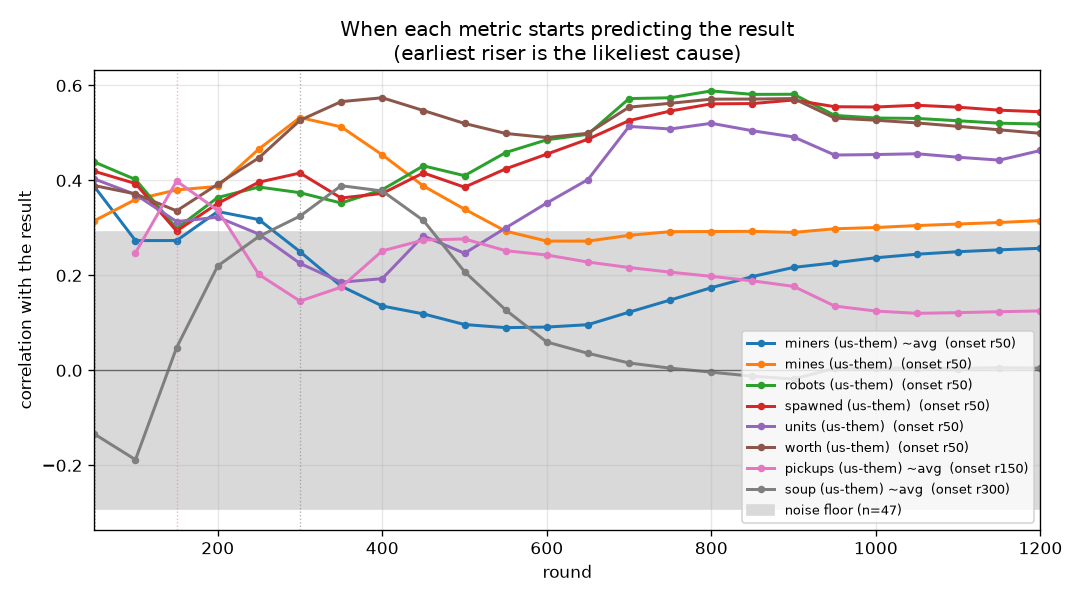
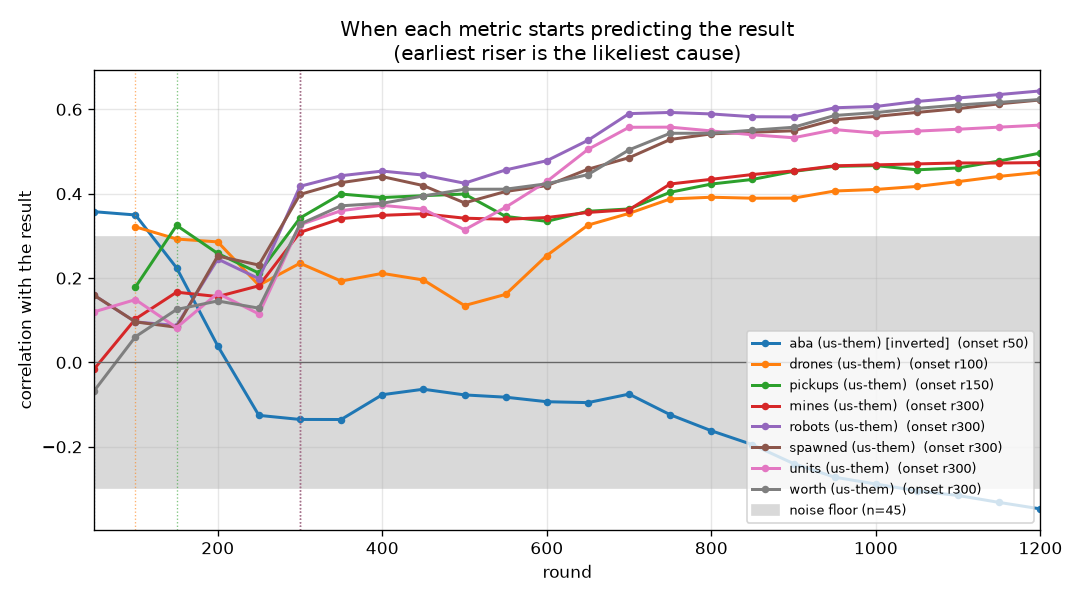
Submission block 20260925-185516-scrim-g_iter10 posted (g_iter10)
Claude-Session: https://claude.ai/code/session_015tNyF5ucwWW1mudpEQTT25

diff --git a/progress/ONSET.md b/progress/ONSET.md
@@ -1,6 +1,6 @@
 # Which metric starts predicting the result first
 
-47 games, 23 wins. Noise floor about 0.29; a correlation inside that band is not evidence.
+45 games, 19 wins. Noise floor about 0.30; a correlation inside that band is not evidence.
 
 Every metric is oriented so **higher is better for us**, so a positive correlation always means
 "this being better goes with winning". `~avg` is the running mean over all rounds so far rather than
@@ -12,46 +12,46 @@ See `progress/METRICS.md` for how each quantity is computed.
 
 | onset | anti | metric | peak corr | r100 | r200 | r300 | r400 | r600 | r900 |
 |---|---|---|---|---|---|---|---|---|---|
-| r50 | - | miners (us-them) ~avg | +0.39 | +0.27 | +0.33 | +0.25 | +0.14 | +0.09 | +0.22 |
-| r50 | - | mines (us-them) | +0.53 | +0.36 | +0.39 | +0.53 | +0.45 | +0.27 | +0.29 |
-| r50 | - | robots (us-them) | +0.59 | +0.40 | +0.36 | +0.37 | +0.38 | +0.49 | +0.58 |
-| r50 | - | robots (us-them) ~avg | +0.58 | +0.39 | +0.33 | +0.36 | +0.43 | +0.49 | +0.58 |
-| r50 | - | spawned (us-them) | +0.57 | +0.39 | +0.35 | +0.42 | +0.37 | +0.46 | +0.57 |
-| r50 | - | spawned (us-them) ~avg | +0.57 | +0.38 | +0.31 | +0.36 | +0.41 | +0.47 | +0.55 |
-| r50 | - | units (us-them) | +0.52 | +0.37 | +0.32 | +0.23 | +0.19 | +0.35 | +0.49 |
-| r50 | - | units (us-them) ~avg | +0.49 | +0.36 | +0.31 | +0.29 | +0.29 | +0.34 | +0.49 |
-| r50 | - | worth (us-them) | +0.57 | +0.37 | +0.39 | +0.53 | +0.57 | +0.49 | +0.57 |
-| r50 | - | worth (us-them) ~avg | +0.58 | +0.34 | +0.35 | +0.46 | +0.56 | +0.55 | +0.57 |
-| r100 | - | mines (us-them) ~avg | +0.50 | +0.32 | +0.34 | +0.43 | +0.50 | +0.43 | +0.35 |
-| r150 | - | pickups (us-them) ~avg | +0.40 | +0.25 | +0.34 | +0.15 | +0.25 | +0.24 | +0.18 |
-| r300 | - | soup (us-them) ~avg | +0.39 | -0.19 | +0.22 | +0.32 | +0.38 | +0.06 | -0.02 |
-| r300 | - | vaporators (us-them) | +0.53 | -0.02 | +0.10 | +0.31 | +0.43 | +0.49 | +0.50 |
-| r400 | - | landscapers (us-them) | +0.63 | +0.28 | +0.21 | +0.17 | +0.31 | +0.57 | +0.60 |
-| r400 | - | pickups (us-them) | +0.40 | +0.25 | +0.23 | +0.04 | +0.33 | +0.20 | +0.12 |
-| r400 | - | vaporators (us-them) ~avg | +0.53 | +0.05 | +0.08 | +0.19 | +0.34 | +0.46 | +0.53 |
-| r500 | - | digs (us-them) | +0.68 | +0.14 | +0.11 | +0.10 | +0.20 | +0.43 | +0.61 |
-| r500 | - | landscapers (us-them) ~avg | +0.67 | +0.28 | +0.19 | +0.17 | +0.22 | +0.49 | +0.65 |
-| r550 | - | dirtDeps (us-them) | +0.67 | +0.10 | +0.07 | +0.08 | +0.16 | +0.39 | +0.58 |
-| r650 | - | digs (us-them) ~avg | +0.62 | +0.14 | +0.09 | +0.07 | +0.12 | +0.28 | +0.50 |
-| r700 | - | dirtDeps (us-them) ~avg | +0.60 | +0.10 | +0.07 | +0.05 | +0.08 | +0.24 | +0.46 |
-| r700 | - | miners (us-them) | +0.40 | +0.19 | +0.34 | +0.07 | +0.02 | +0.08 | +0.38 |
-| r750 | - | moves (us-them) | +0.40 | -0.00 | +0.23 | +0.23 | +0.20 | +0.26 | +0.39 |
-| r800 | - | moves (us-them) ~avg | +0.40 | -0.07 | +0.14 | +0.20 | +0.20 | +0.26 | +0.33 |
-| - | - | aba (us-them) [inverted] | -0.30 | +0.00 | -0.12 | -0.14 | -0.05 | -0.22 | -0.30 |
-| - | - | aba (us-them) [inverted] ~avg | -0.25 | -0.01 | -0.10 | -0.10 | -0.07 | -0.18 | -0.25 |
-| - | - | cov (us-them) | +0.22 | -0.14 | -0.08 | +0.10 | +0.12 | +0.15 | +0.20 |
-| - | - | cov (us-them) ~avg | +0.20 | -0.13 | -0.14 | -0.04 | +0.03 | +0.13 | +0.17 |
-| - | - | died (us-them) [inverted] | +0.25 | +0.22 | +0.13 | -0.11 | +0.17 | +0.20 | +0.14 |
-| - | - | died (us-them) [inverted] ~avg | +0.22 | +0.22 | +0.20 | +0.03 | +0.10 | +0.18 | +0.19 |
-| - | - | drones (us-them) | +0.28 | +0.12 | +0.04 | +0.06 | -0.06 | -0.12 | +0.25 |
-| - | - | drones (us-them) ~avg | +0.22 | +0.12 | +0.16 | +0.13 | +0.06 | -0.07 | +0.14 |
+| r50 | r1050 | aba (us-them) [inverted] | +0.36 | +0.35 | +0.04 | -0.14 | -0.08 | -0.09 | -0.24 |
+| r100 | - | aba (us-them) [inverted] ~avg | +0.35 | +0.35 | +0.14 | -0.07 | -0.11 | -0.10 | -0.16 |
+| r100 | - | drones (us-them) | +0.45 | +0.32 | +0.29 | +0.24 | +0.21 | +0.25 | +0.39 |
+| r100 | - | drones (us-them) ~avg | +0.40 | +0.32 | +0.35 | +0.37 | +0.31 | +0.24 | +0.37 |
+| r150 | - | pickups (us-them) | +0.50 | +0.18 | +0.26 | +0.34 | +0.39 | +0.33 | +0.45 |
+| r150 | - | pickups (us-them) ~avg | +0.47 | +0.18 | +0.30 | +0.33 | +0.40 | +0.39 | +0.44 |
+| r300 | - | mines (us-them) | +0.47 | +0.10 | +0.16 | +0.31 | +0.35 | +0.34 | +0.45 |
+| r300 | - | robots (us-them) | +0.64 | +0.10 | +0.25 | +0.42 | +0.45 | +0.48 | +0.58 |
+| r300 | - | spawned (us-them) | +0.62 | +0.10 | +0.25 | +0.40 | +0.44 | +0.42 | +0.55 |
+| r300 | - | units (us-them) | +0.56 | +0.15 | +0.16 | +0.33 | +0.37 | +0.43 | +0.53 |
+| r300 | - | worth (us-them) | +0.62 | +0.06 | +0.15 | +0.33 | +0.38 | +0.42 | +0.56 |
+| r350 | - | robots (us-them) ~avg | +0.58 | +0.13 | +0.17 | +0.29 | +0.39 | +0.46 | +0.55 |
+| r350 | - | spawned (us-them) ~avg | +0.55 | +0.13 | +0.17 | +0.28 | +0.37 | +0.42 | +0.49 |
+| r350 | - | worth (us-them) ~avg | +0.54 | +0.04 | +0.13 | +0.25 | +0.33 | +0.39 | +0.48 |
+| r400 | - | mines (us-them) ~avg | +0.41 | +0.07 | +0.16 | +0.26 | +0.32 | +0.34 | +0.39 |
+| r400 | - | units (us-them) ~avg | +0.53 | +0.15 | +0.13 | +0.21 | +0.30 | +0.38 | +0.51 |
+| r450 | - | landscapers (us-them) | +0.60 | +0.00 | +0.08 | +0.23 | +0.30 | +0.39 | +0.60 |
+| r500 | - | moves (us-them) | +0.55 | -0.17 | +0.07 | +0.14 | +0.26 | +0.35 | +0.50 |
+| r500 | - | vaporators (us-them) | +0.59 | -0.20 | +0.02 | +0.09 | +0.18 | +0.33 | +0.53 |
+| r550 | - | netguns (us-them) | +0.40 | . | +0.17 | +0.11 | +0.12 | +0.37 | +0.37 |
+| r600 | - | died (us-them) [inverted] | +0.35 | . | -0.04 | +0.14 | +0.19 | +0.32 | +0.20 |
+| r600 | - | landscapers (us-them) ~avg | +0.55 | +0.00 | +0.02 | +0.08 | +0.18 | +0.31 | +0.48 |
+| r650 | - | moves (us-them) ~avg | +0.50 | -0.17 | +0.00 | +0.11 | +0.20 | +0.30 | +0.43 |
+| r700 | - | digs (us-them) | +0.46 | -0.14 | +0.07 | +0.09 | +0.15 | +0.23 | +0.34 |
+| r750 | - | cov (us-them) | +0.35 | -0.10 | +0.13 | +0.06 | +0.11 | +0.21 | +0.30 |
+| r750 | - | netguns (us-them) ~avg | +0.37 | . | +0.18 | +0.14 | +0.13 | +0.23 | +0.34 |
+| r750 | - | vaporators (us-them) ~avg | +0.53 | -0.20 | -0.03 | +0.04 | +0.10 | +0.25 | +0.39 |
+| r950 | - | dirtDeps (us-them) | +0.44 | -0.08 | +0.02 | +0.05 | +0.11 | +0.20 | +0.29 |
+| r1050 | - | cov (us-them) ~avg | +0.31 | -0.08 | +0.03 | +0.03 | +0.06 | +0.13 | +0.25 |
+| r1100 | - | digs (us-them) ~avg | +0.34 | -0.14 | +0.04 | +0.05 | +0.10 | +0.17 | +0.26 |
+| r1200 | - | dirtDeps (us-them) ~avg | +0.31 | -0.08 | -0.01 | -0.01 | +0.05 | +0.13 | +0.22 |
+| - | - | died (us-them) [inverted] ~avg | +0.27 | . | -0.04 | +0.05 | +0.14 | +0.22 | +0.25 |
 | - | - | drowned (us-them) [inverted] | . | . | . | . | . | . | . |
 | - | - | drowned (us-them) [inverted] ~avg | . | . | . | . | . | . | . |
-| - | - | hqBuried (us-them) [inverted] | +0.19 | +0.19 | . | . | . | . | . |
-| - | - | hqBuried (us-them) [inverted] ~avg | +0.19 | +0.19 | . | . | . | . | . |
-| - | - | netguns (us-them) | +0.29 | -0.15 | -0.16 | -0.05 | -0.01 | +0.23 | +0.28 |
-| - | - | netguns (us-them) ~avg | +0.22 | -0.15 | -0.16 | -0.11 | -0.06 | +0.03 | +0.19 |
-| - | - | soup (us-them) | +0.47 | -0.11 | +0.31 | +0.25 | +0.13 | -0.08 | -0.06 |
+| - | - | hqBuried (us-them) [inverted] | +0.21 | +0.21 | +0.13 | . | . | . | . |
+| - | - | hqBuried (us-them) [inverted] ~avg | +0.21 | +0.21 | +0.13 | . | . | . | . |
+| - | - | miners (us-them) | +0.18 | +0.15 | +0.18 | +0.13 | +0.14 | +0.15 | +0.12 |
+| - | - | miners (us-them) ~avg | +0.17 | +0.16 | +0.17 | +0.16 | +0.17 | +0.16 | +0.16 |
+| - | - | soup (us-them) | -0.29 | +0.05 | -0.23 | -0.16 | -0.09 | +0.11 | +0.02 |
+| - | - | soup (us-them) ~avg | -0.29 | -0.04 | -0.07 | -0.10 | -0.09 | +0.02 | +0.08 |
 
 **Reading it.** Earliest onset is the first place to look: temporal precedence is the one causal hint a
 correlation can honestly give. Late-onset metrics are usually the scoreboard rather than the cause -- by then

diff --git a/BENCHMARK.md b/BENCHMARK.md
@@ -62,7 +62,7 @@ build with at least 200 recorded games: a candidate's short ladder arm never re-
 | `EmaPajic.Mark3` | EmaPajic_Battlecode-2020 (c060a22) | - | - | untested |  |
 | `EmaPajic.Mark4` | EmaPajic_Battlecode-2020 (c060a22) | - | - | untested |  |
 | `EmaPajic.Mark5` | EmaPajic_Battlecode-2020 (c060a22) | - | - | untested |  |
-| `EmaPajic.Qualifications` | EmaPajic_Battlecode-2020 (c060a22) | 20 | 30 | target | 20 0 21 0 50 0 17 38 8 25 10 17 20 33 33 22 |
+| `EmaPajic.Qualifications` | EmaPajic_Battlecode-2020 (c060a22) | 20 | 30 | target | 20 0 21 0 50 0 17 38 8 25 10 17 20 33 33 25 |
 | `EmaPajic.SeedingBot` | EmaPajic_Battlecode-2020 (c060a22) | - | - | untested |  |
 | `GabrielDWu.basicbot` | GabrielDWu_blezers-battlecode2020 (c0283f8) | - | - | untested |  |
 | `GabrielDWu.blezerbot` | GabrielDWu_blezers-battlecode2020 (c0283f8) | - | - | untested |  |
@@ -171,11 +171,11 @@ build with at least 200 recorded games: a candidate's short ladder arm never re-
 | `benzyx.espada` | benzyx_bc20-waterloo (05df2e7) | - | - | untested |  |
 | `benzyx.firstplayer` | benzyx_bc20-waterloo (05df2e7) | - | - | untested |  |
 | `benzyx.kurobot` | benzyx_bc20-waterloo (05df2e7) | - | - | untested |  |
-| `benzyx.seeding` | benzyx_bc20-waterloo (05df2e7) | 53 | 30 | peer | 25 17 50 40 25 45 41 33 36 33 33 58 50 25 58 53 50 50 67 |
+| `benzyx.seeding` | benzyx_bc20-waterloo (05df2e7) | 53 | 30 | peer | 25 17 50 40 25 45 41 33 36 33 33 58 50 25 58 53 50 50 62 |
 | `benzyx.tortuga` | benzyx_bc20-waterloo (05df2e7) | - | - | untested |  |
 | `charboltron.master_player` | charboltron_pdx_battlecode_2020_team_11 (f78f1e3) | - | - | untested |  |
 | `charboltron.team11newbot` | charboltron_pdx_battlecode_2020_team_11 (f78f1e3) | 100 | 2 | peer(>90 once) | 100 100 |
-| `cormackikkert.whyPermutator` | cormackikkert_battlecode2020 (4d230c4) | 50 | 30 | peer | 25 17 38 40 25 42 45 25 28 25 42 33 47 58 42 50 38 75 67 |
+| `cormackikkert.whyPermutator` | cormackikkert_battlecode2020 (4d230c4) | 50 | 30 | peer | 25 17 38 40 25 42 45 25 28 25 42 33 47 58 42 50 38 75 58 |
 | `cormackikkert.whyPermutatorOld` | cormackikkert_battlecode2020 (4d230c4) | - | - | untested |  |
 | `cosimogonnelli.Team3player` | cosimogonnelli_CS454-554-SE (d7dc657) | 100 | 2 | peer(>90 once) | 80 100 |
 | `cs454-w20-team3.oldbot` | cs454-w20-team3_team3-bot (502c334) | - | - | untested |  |
@@ -203,7 +203,7 @@ build with at least 200 recorded games: a candidate's short ladder arm never re-
 | `kylittle.deliriumv1` | kylittle_DeliriumBattlecode (17a94dd) | - | - | untested |  |
 | `kylittle.qualsbot` | kylittle_DeliriumBattlecode (17a94dd) | - | - | untested |  |
 | `kylittle.qualsbot2` | kylittle_DeliriumBattlecode (17a94dd) | 100 | 2 | peer(>90 once) | 100 100 |
-| `laurenschneider.pdx_team_one` | laurenschneider_battlecode20-PDXTeamOne (2965376) | 47 | 30 | target | 0 50 39 14 0 47 38 0 50 50 50 42 47 42 50 47 50 42 44 |
+| `laurenschneider.pdx_team_one` | laurenschneider_battlecode20-PDXTeamOne (2965376) | 47 | 30 | target | 0 50 39 14 0 47 38 0 50 50 50 42 47 42 50 47 50 42 46 |
 | `lfchain.bigBudsBot` | lfchain_Battlecode2020 (b026153) | 100 | 2 | peer(>90 once) | 100 100 |
 | `lfchain.fBot` | lfchain_Battlecode2020 (b026153) | - | - | untested |  |
 | `lfchain.jBot` | lfchain_Battlecode2020 (b026153) | - | - | untested |  |
@@ -246,7 +246,7 @@ build with at least 200 recorded games: a candidate's short ladder arm never re-
 | `mvpatel2000.oldhades` | mvpatel2000_Battlecode2020 (554943e) | - | - | untested |  |
 | `mvpatel2000.poseidon` | mvpatel2000_Battlecode2020 (554943e) | - | - | untested |  |
 | `mvpatel2000.quail` | mvpatel2000_Battlecode2020 (554943e) | - | - | untested |  |
-| `mvpatel2000.qual` | mvpatel2000_Battlecode2020 (554943e) | 20 | 30 | target | 0 8 24 13 67 12 0 12 20 46 8 28 |
+| `mvpatel2000.qual` | mvpatel2000_Battlecode2020 (554943e) | 20 | 30 | target | 0 8 24 13 67 12 0 12 20 46 8 25 |
 | `mvpatel2000.qualAttacc` | mvpatel2000_Battlecode2020 (554943e) | - | - | untested |  |
 | `mvpatel2000.qualNoAtacc` | mvpatel2000_Battlecode2020 (554943e) | - | - | untested |  |
 | `mvpatel2000.seeding` | mvpatel2000_Battlecode2020 (554943e) | - | - | untested |  |
@@ -280,7 +280,7 @@ build with at least 200 recorded games: a candidate's short ladder arm never re-
 | `poortho.rush` | poortho_battlecode-2020 (ebbd61e) | - | - | untested |  |
 | `poortho.rush_bot` | poortho_battlecode-2020 (ebbd61e) | - | - | untested |  |
 | `poortho.stable_miner1` | poortho_battlecode-2020 (ebbd61e) | - | - | untested |  |
-| `poortho.stable_seeding_bot` | poortho_battlecode-2020 (ebbd61e) | 37 | 30 | target | 0 17 27 31 0 30 31 50 39 33 25 33 33 17 42 37 33 17 22 |
+| `poortho.stable_seeding_bot` | poortho_battlecode-2020 (ebbd61e) | 37 | 30 | target | 0 17 27 31 0 30 31 50 39 33 25 33 33 17 42 37 33 17 29 |
 | `ps789.dennisTestPlayer` | ps789_AZBattlecode (f1d54ab) | - | - | untested |  |
 | `ps789.phillipTestPlayer` | ps789_AZBattlecode (f1d54ab) | - | - | untested |  |
 | `ronniesong0809.finalbota` | ronniesong0809_battlecode20-RADS (1cee065) | 0 | 11 | locked | 0 18 15 7 0 0 |
@@ -326,9 +326,9 @@ build with at least 200 recorded games: a candidate's short ladder arm never re-
 | `willBoyd8.droideka` | willBoyd8_BattleDroid (4b1d4ad) | - | - | untested |  |
 | `willBoyd8.empire` | willBoyd8_BattleDroid (4b1d4ad) | - | - | untested |  |
 | `willBoyd8.mouse` | willBoyd8_BattleDroid (4b1d4ad) | - | - | untested |  |
-| `winkelmantanner.tannerplayer` | winkelmantanner_battlecode2020_the-levee-builders (7f49f11) | 23 | 30 | target | 0 25 15 23 0 36 12 8 23 17 25 11 |
+| `winkelmantanner.tannerplayer` | winkelmantanner_battlecode2020_the-levee-builders (7f49f11) | 23 | 30 | target | 0 25 15 23 0 36 12 8 23 17 25 17 |
 | `wpine215.stardustv1` | wpine215_battlecode (d570d57) | - | - | untested |  |
-| `wpine215.stardustv2` | wpine215_battlecode (d570d57) | 87 | 30 | peer | 0 30 50 65 100 70 77 58 78 83 67 75 87 100 83 67 100 78 |
+| `wpine215.stardustv2` | wpine215_battlecode (d570d57) | 87 | 30 | peer | 0 30 50 65 100 70 77 58 78 83 67 75 87 100 83 67 100 75 |
 | `yaonam.Robot_1` | yaonam_battlecode2020 (bb363f5) | 83 | 12 | peer | 62 100 83 100 |
 
 285 bot packages from 68 repositories.

diff --git a/progress/ELO.md b/progress/ELO.md
@@ -1,16 +1,16 @@
 # Ladder
 
-5225 scrimmages (ours only), 4701 distinct (a repeated pairing with the same seed replays the same game and counts once), rated by a batch Bradley-Terry fit on the Elo scale (`tools/elolib.py`); each of our builds is its own player. 65 of 65 ladder bots met.
+5273 scrimmages (ours only), 4749 distinct (a repeated pairing with the same seed replays the same game and counts once), rated by a batch Bradley-Terry fit on the Elo scale (`tools/elolib.py`); each of our builds is its own player. 65 of 65 ladder bots met.
 
 Our builds (rating +- 95%; field score = expected score against every ladder bot, one game each):
 
 | build | rating | rank | games | record | field score |
 |---|---|---|---|---|---|
 | cand43b | 1750 +- 79 | 14 of 84 | 96 | 64-32 | 76.0% |
-| cand49b | 1747 +- 75 | 15 of 84 | 96 | 42-54 | 75.8% |
-| g_iter10 | 1737 +- 61 | 17 of 84 | 144 | 61-83 | 75.2% |
+| cand49b | 1747 +- 74 | 16 of 84 | 96 | 42-54 | 75.8% |
+| g_iter10 | 1737 +- 53 | 17 of 84 | 192 | 81-111 | 75.2% |
 | cand47d | 1733 +- 53 | 18 of 84 | 192 | 73-119 | 75.0% |
-| g_iter9 | 1719 +- 48 | 20 of 84 | 240 | 78-162 | 74.1% |
+| g_iter9 | 1718 +- 48 | 20 of 84 | 240 | 78-162 | 74.1% |
 | g_iter8 | 1703 +- 49 | 21 of 84 | 240 | 108-132 | 73.1% |
 | cand41b | 1702 +- 76 | 22 of 84 | 96 | 51-45 | 73.0% |
 | g_iter7 | 1692 +- 44 | 23 of 84 | 288 | 135-153 | 72.4% |
@@ -20,8 +20,8 @@ Our builds (rating +- 95%; field score = expected score against every ladder bot
 | cand42c | 1684 +- 76 | 27 of 84 | 96 | 49-47 | 71.9% |
 | iter24 | 1659 +- 129 | 28 of 84 | 46 | 11-35 | 70.2% |
 | cand37 | 1658 +- 76 | 29 of 84 | 96 | 46-50 | 70.1% |
-| g_iter3 | 1652 +- 33 | 30 of 84 | 796 | 167-629 | 69.6% |
-| cand31 | 1645 +- 76 | 31 of 84 | 96 | 52-44 | 69.2% |
+| g_iter3 | 1651 +- 33 | 30 of 84 | 796 | 167-629 | 69.6% |
+| cand31 | 1646 +- 76 | 31 of 84 | 96 | 52-44 | 69.2% |
 | g_iter4 | 1630 +- 64 | 32 of 84 | 217 | 43-174 | 68.1% |
 | g_iter2 | 1576 +- 69 | 33 of 84 | 192 | 44-148 | 63.7% |
 | g_iter1 | 1557 +- 69 | 34 of 84 | 170 | 95-75 | 62.1% |
@@ -36,18 +36,18 @@ Our builds (rating +- 95%; field score = expected score against every ladder bot
 | 6 | battlecode20-team4.finalbota | 1992 | 65 | 226 | 195-31 |
 | 7 | IvanGeffner.finalbota | 1992 | 105 | 101 | 90-11 |
 | 8 | ronniesong0809.finalbota | 1985 | 105 | 97 | 86-11 |
-| 9 | winkelmantanner.tannerplayer | 1960 | 59 | 236 | 196-40 |
-| 10 | mvpatel2000.qual | 1927 | 57 | 223 | 179-44 |
-| 11 | EmaPajic.Qualifications | 1924 | 50 | 287 | 229-58 |
-| 12 | poortho.stable_seeding_bot | 1830 | 35 | 455 | 316-139 |
-| 13 | laurenschneider.pdx_team_one | 1753 | 32 | 470 | 279-191 |
+| 9 | winkelmantanner.tannerplayer | 1956 | 57 | 242 | 200-42 |
+| 10 | mvpatel2000.qual | 1929 | 56 | 229 | 184-45 |
+| 11 | EmaPajic.Qualifications | 1922 | 49 | 293 | 233-60 |
+| 12 | poortho.stable_seeding_bot | 1828 | 34 | 461 | 319-142 |
+| 13 | laurenschneider.pdx_team_one | 1753 | 32 | 476 | 282-194 |
 | 14 | **us:cand43b** | 1750 | 79 | 96 | 64-32 |
-| 15 | **us:cand49b** | 1747 | 75 | 96 | 42-54 |
-| 16 | cormackikkert.whyPermutator | 1747 | 32 | 463 | 271-192 |
-| 17 | **us:g_iter10** | 1737 | 61 | 144 | 61-83 |
+| 15 | cormackikkert.whyPermutator | 1748 | 32 | 469 | 275-194 |
+| 16 | **us:cand49b** | 1747 | 74 | 96 | 42-54 |
+| 17 | **us:g_iter10** | 1737 | 53 | 192 | 81-111 |
 | 18 | **us:cand47d** | 1733 | 53 | 192 | 73-119 |
-| 19 | benzyx.seeding | 1728 | 32 | 466 | 261-205 |
-| 20 | **us:g_iter9** | 1719 | 48 | 240 | 78-162 |
+| 19 | benzyx.seeding | 1728 | 32 | 472 | 264-208 |
+| 20 | **us:g_iter9** | 1718 | 48 | 240 | 78-162 |
 | 21 | **us:g_iter8** | 1703 | 49 | 240 | 108-132 |
 | 22 | **us:cand41b** | 1702 | 76 | 96 | 51-45 |
 | 23 | **us:g_iter7** | 1692 | 44 | 288 | 135-153 |
@@ -57,12 +57,12 @@ Our builds (rating +- 95%; field score = expected score against every ladder bot
 | 27 | **us:cand42c** | 1684 | 76 | 96 | 49-47 |
 | 28 | **us:iter24** | 1659 | 129 | 46 | 11-35 |
 | 29 | **us:cand37** | 1658 | 76 | 96 | 46-50 |
-| 30 | **us:g_iter3** | 1652 | 33 | 796 | 167-629 |
-| 31 | **us:cand31** | 1645 | 76 | 96 | 52-44 |
+| 30 | **us:g_iter3** | 1651 | 33 | 796 | 167-629 |
+| 31 | **us:cand31** | 1646 | 76 | 96 | 52-44 |
 | 32 | **us:g_iter4** | 1630 | 64 | 217 | 43-174 |
 | 33 | **us:g_iter2** | 1576 | 69 | 192 | 44-148 |
 | 34 | **us:g_iter1** | 1557 | 69 | 170 | 95-75 |
-| 35 | wpine215.stardustv2 | 1513 | 37 | 419 | 115-304 |
+| 35 | wpine215.stardustv2 | 1514 | 37 | 425 | 117-308 |
 | 36 | mhahn2003.nonrush | 1464 | 52 | 250 | 56-194 |
 | 37 | eggag32.BrutalPigeonBot | 1464 | 59 | 194 | 42-152 |
 | 38 | ARognes.FinalSubmission | 1423 | 147 | 31 | 6-25 |
